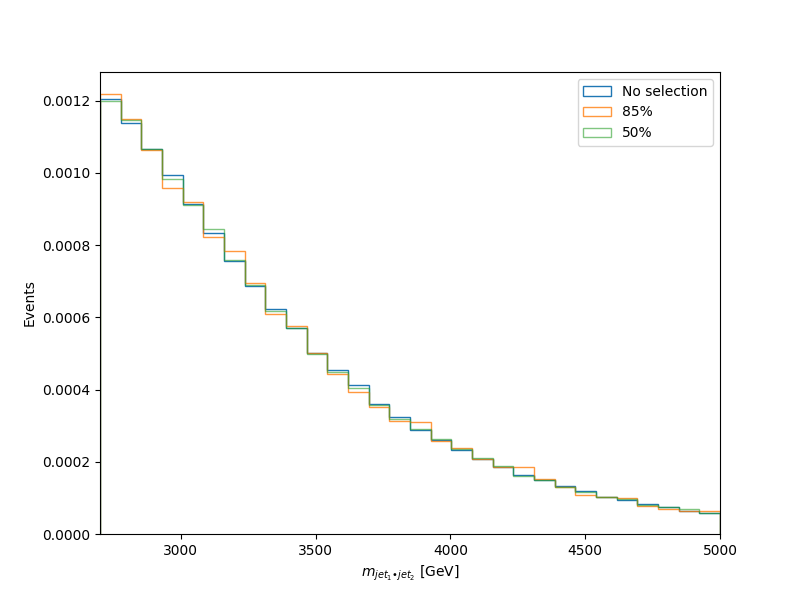
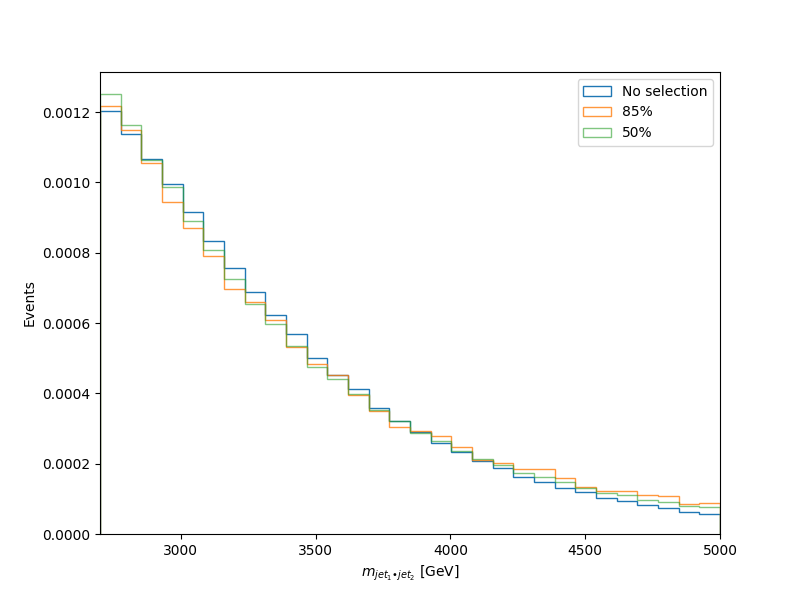
Testing with standard scaling and 21, 14 layer dimensions

diff --git a/autoencoder.py b/autoencoder.py
@@ -48,8 +48,8 @@ class AutoEncoder(nn.Module):
             nn.Linear(latent_dim, mid_dim),
             nn.ReLU(),
             nn.Linear(mid_dim, input_dim),
-            # nn.ReLU() # MinMax Scaling 
-            nn.ELU() # Standard Scaling
+            nn.ReLU() # MinMax Scaling 
+            # nn.ELU() # Standard Scaling
         )
 
         # Initialize decoder weights with encoder weights

diff --git a/test.py b/test.py
@@ -92,7 +92,6 @@ all_data[smooth_cols] = all_data[smooth_cols].apply(lambda x: np.log(x))
 
 
 # Create a MinMaxScaler object with adjusted parameters for the current column
-scaler = MinMaxScaler()
 data_scaled = pd.DataFrame(scaler.fit_transform(all_data), columns=selection)
 
 # Apply scaling to each dataset per column
